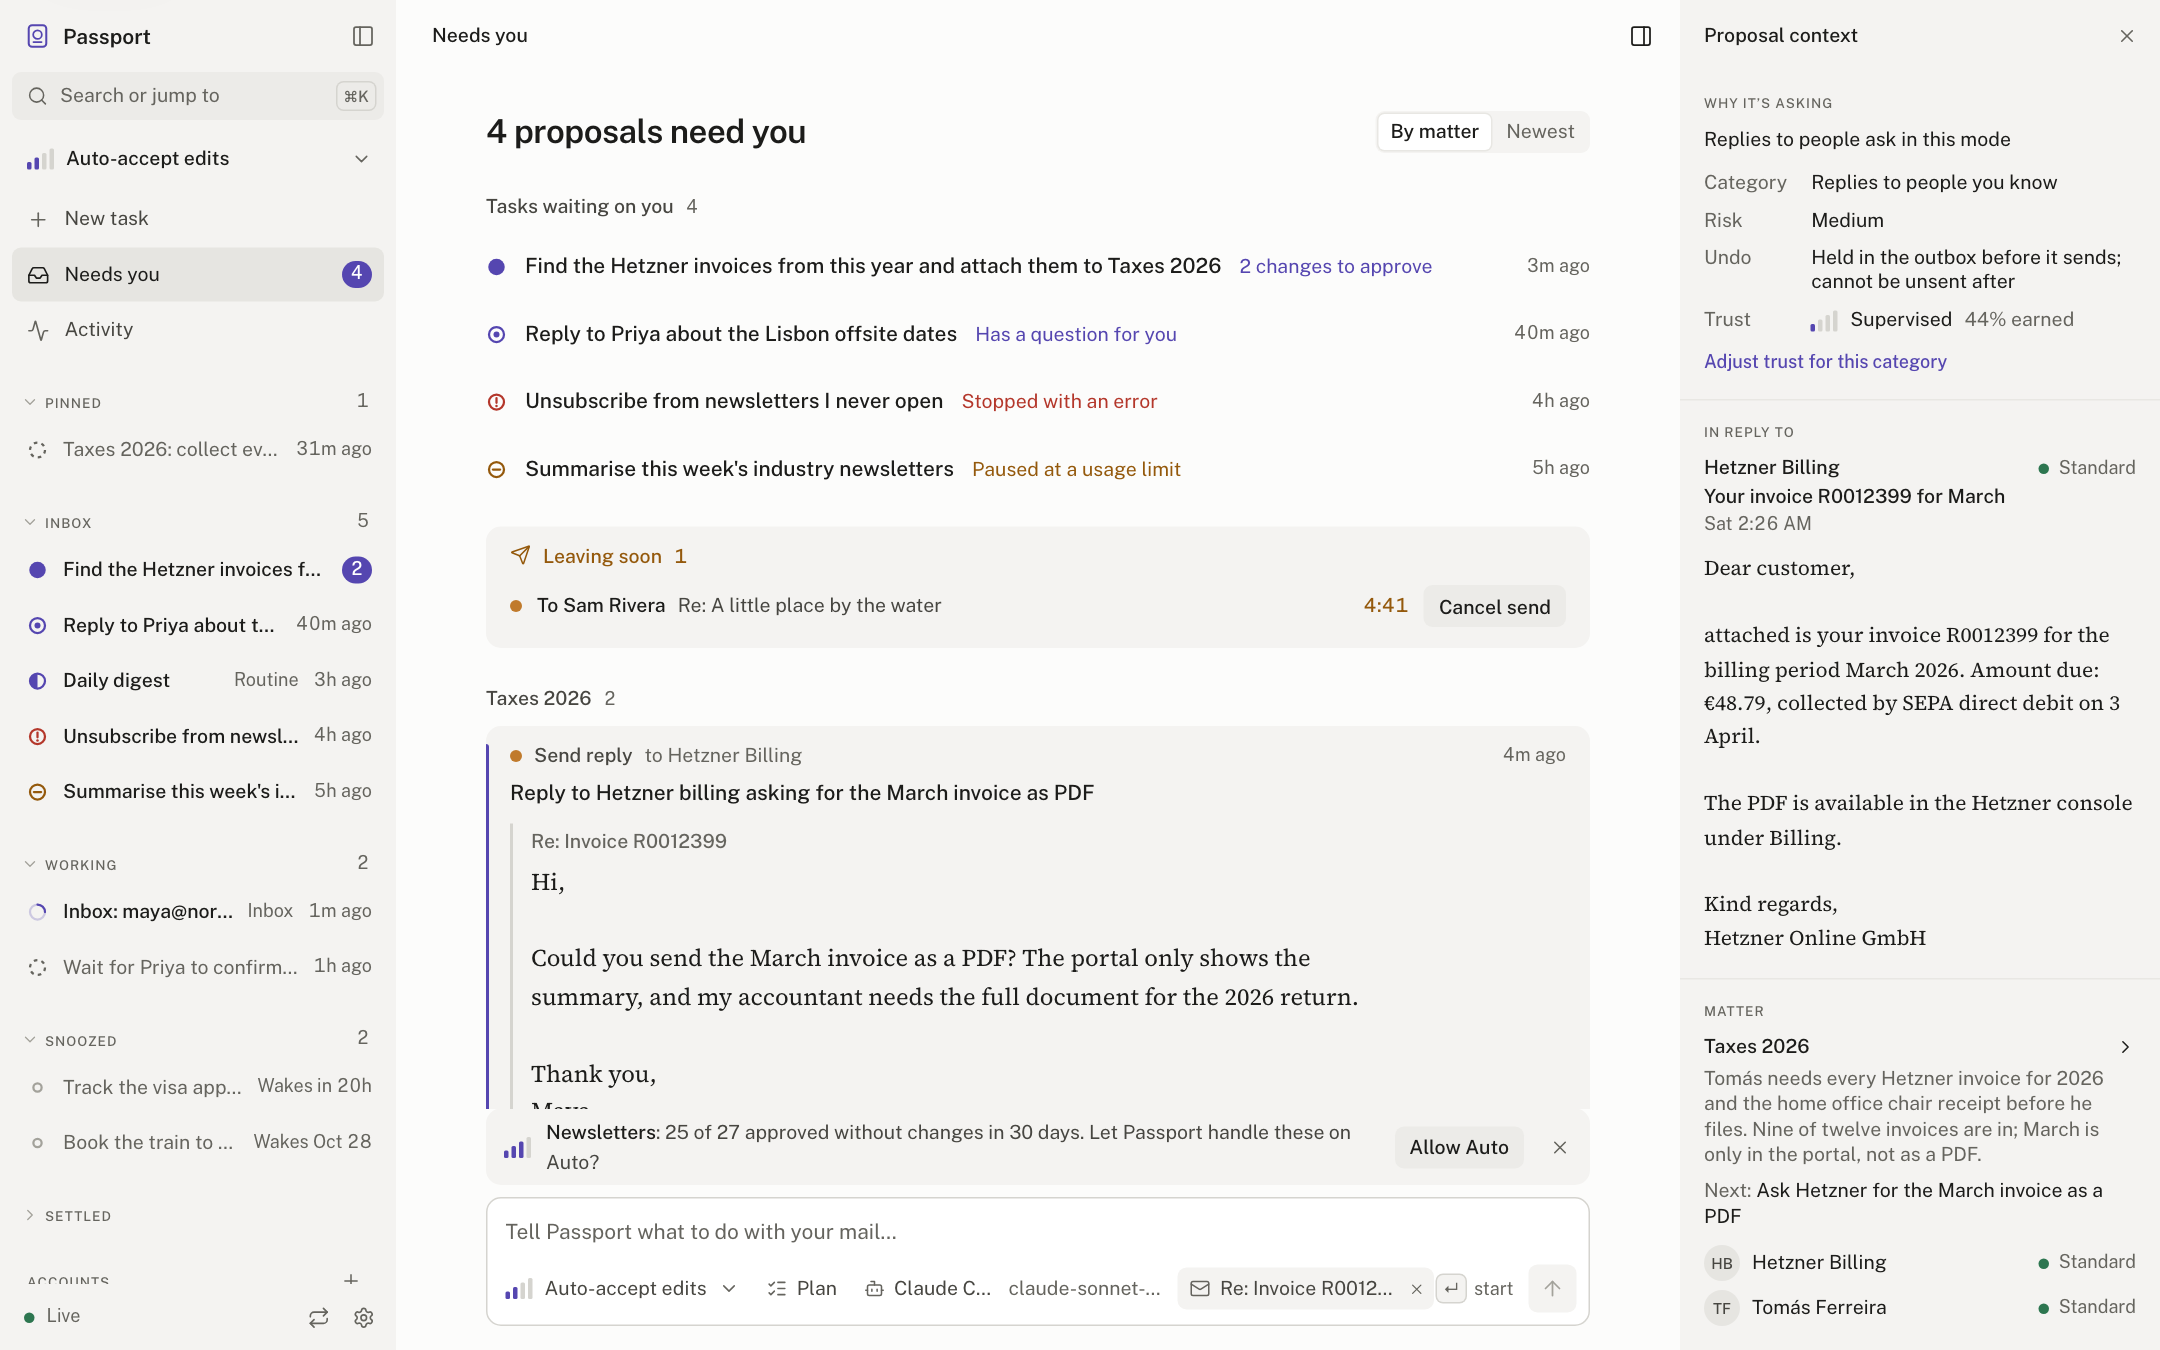
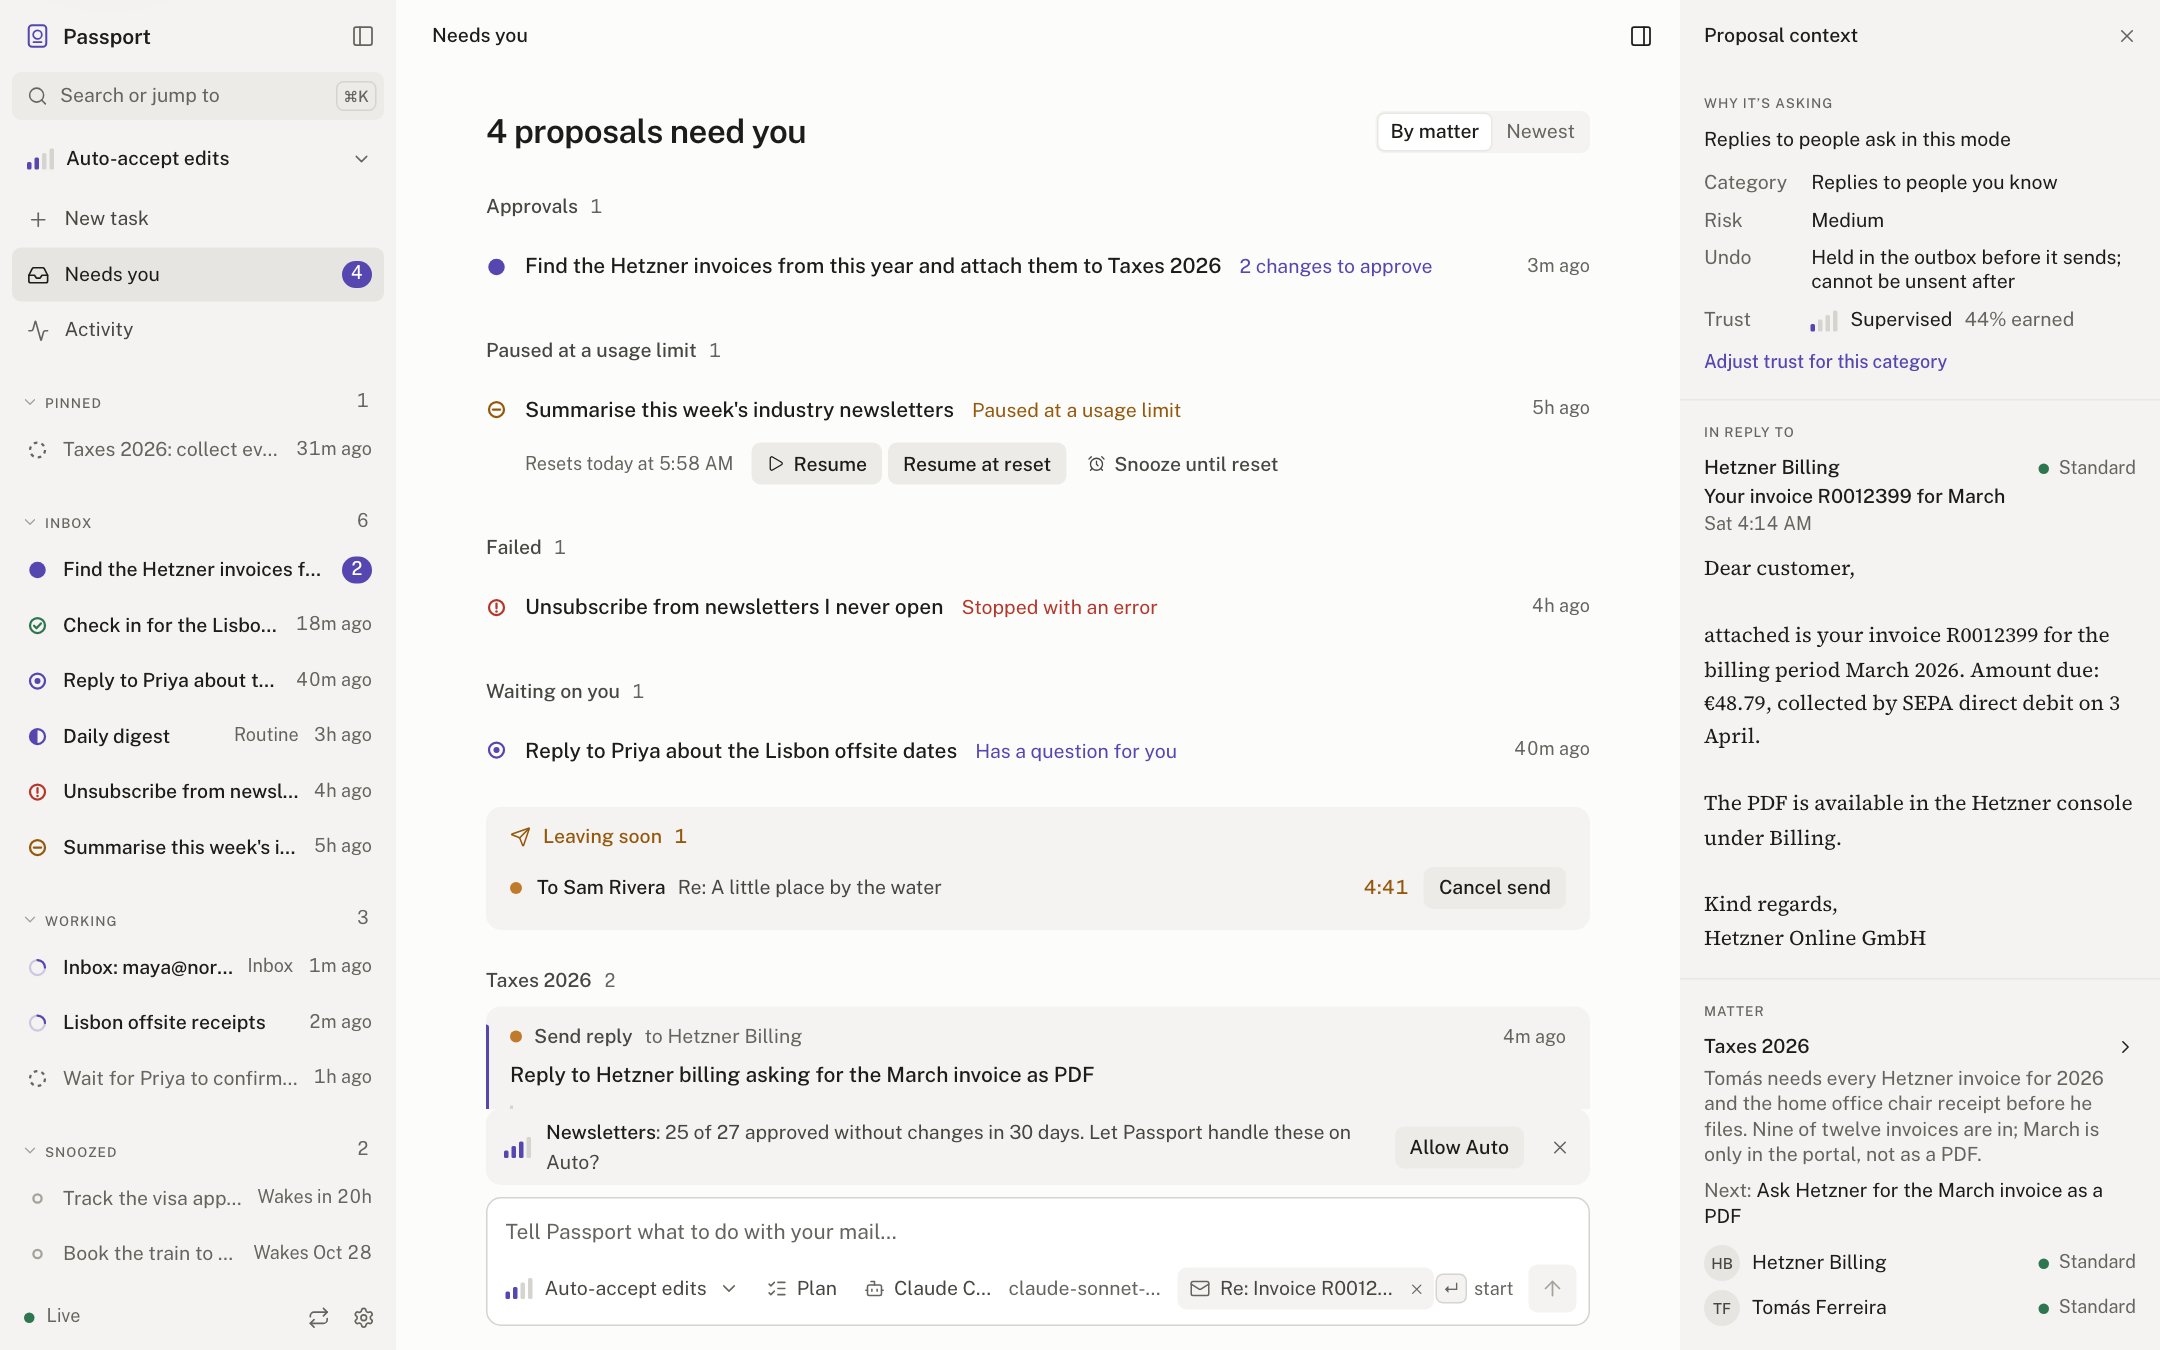
fix(web): quieter Steer now, Limited actions under the Needs you row; recapture screenshots
task-dark.png was a light-theme capture; task-light/dark and queue-light/dark are
recaptured with the lifecycle wiring, and queue-strip-light/dark are new.

diff --git a/apps/web/src/styles/lifecycle.css b/apps/web/src/styles/lifecycle.css
@@ -156,10 +156,11 @@
 .limited-actions .error {
   flex-basis: 100%;
 }
+/* On Needs you the actions take a second line, under the title. */
 .limited-actions.compact {
-  flex: none;
-  margin-top: 0;
-  justify-content: flex-end;
+  flex-basis: 100%;
+  margin: 0 0 var(--s-2);
+  padding-left: calc(14px + var(--s-3));
 }
 .limited-actions.compact .limited-when {
   font-size: var(--t-xs);
@@ -168,11 +169,10 @@
 /* A Needs you row with controls beside its link. */
 .task-card-row {
   display: flex;
-  align-items: center;
-  gap: var(--s-3);
+  flex-wrap: wrap;
 }
 .task-card-row > .task-card {
-  flex: 1;
+  flex: 1 1 100%;
   min-width: 0;
 }
 

diff --git a/apps/web/src/tasks/QueueStrip.tsx b/apps/web/src/tasks/QueueStrip.tsx
@@ -260,7 +260,7 @@ export function QueueStrip({ task, live }: { task: Task; live: boolean }) {
               <span className="queue-actions">
                 <button
                   type="button"
-                  className="btn btn-sm"
+                  className="btn btn-sm btn-ghost"
                   disabled={busy === entry.runId}
                   title={
                     live
